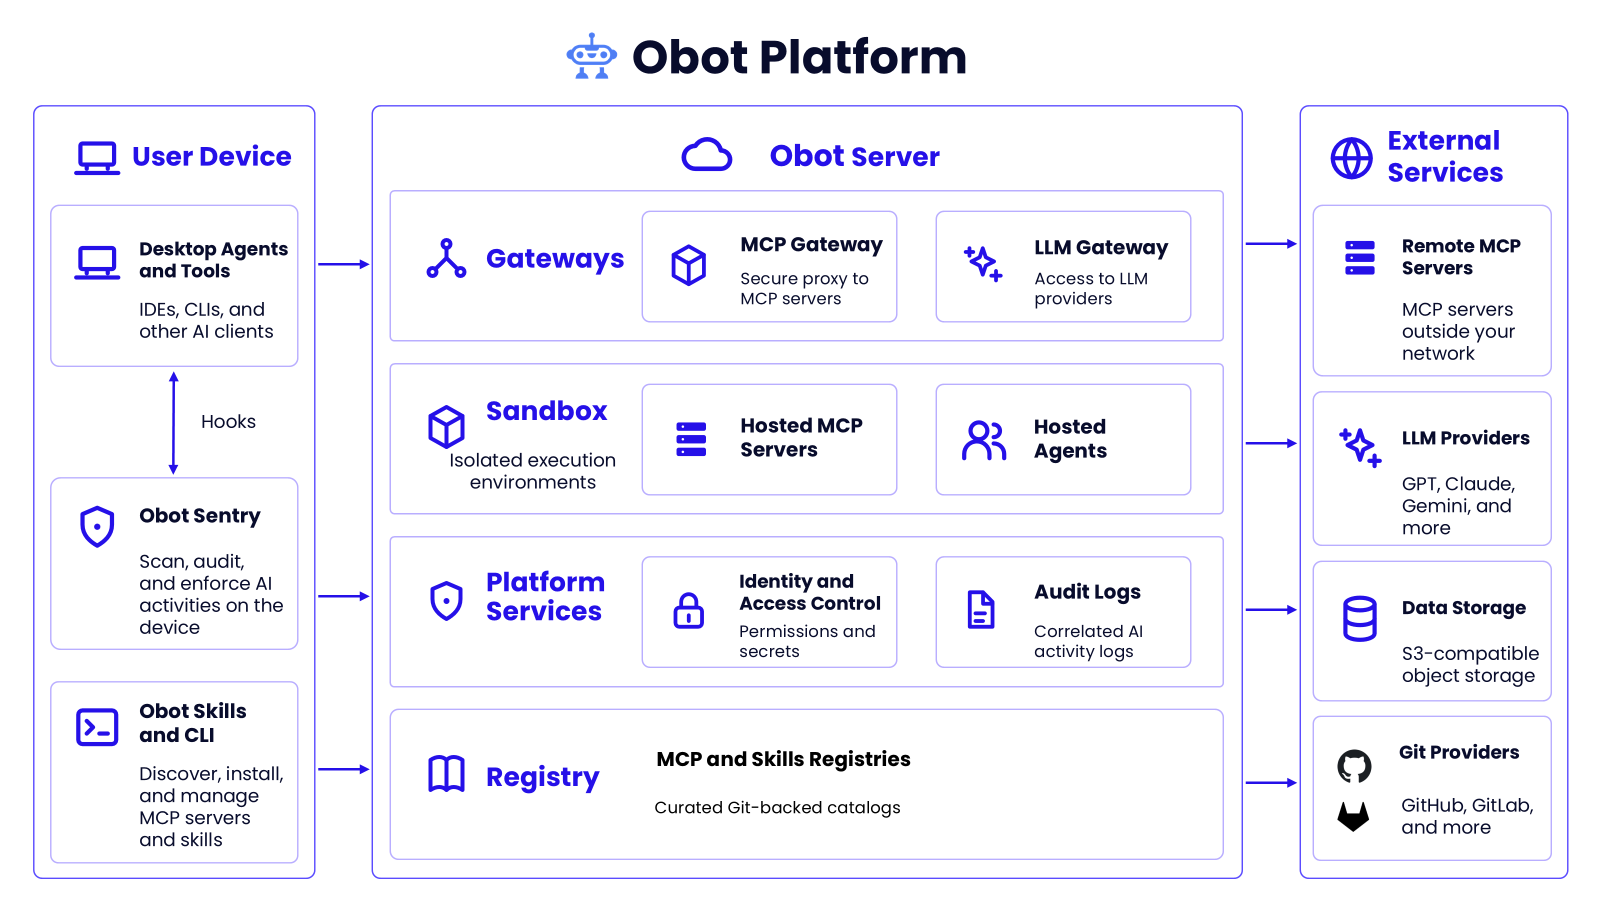
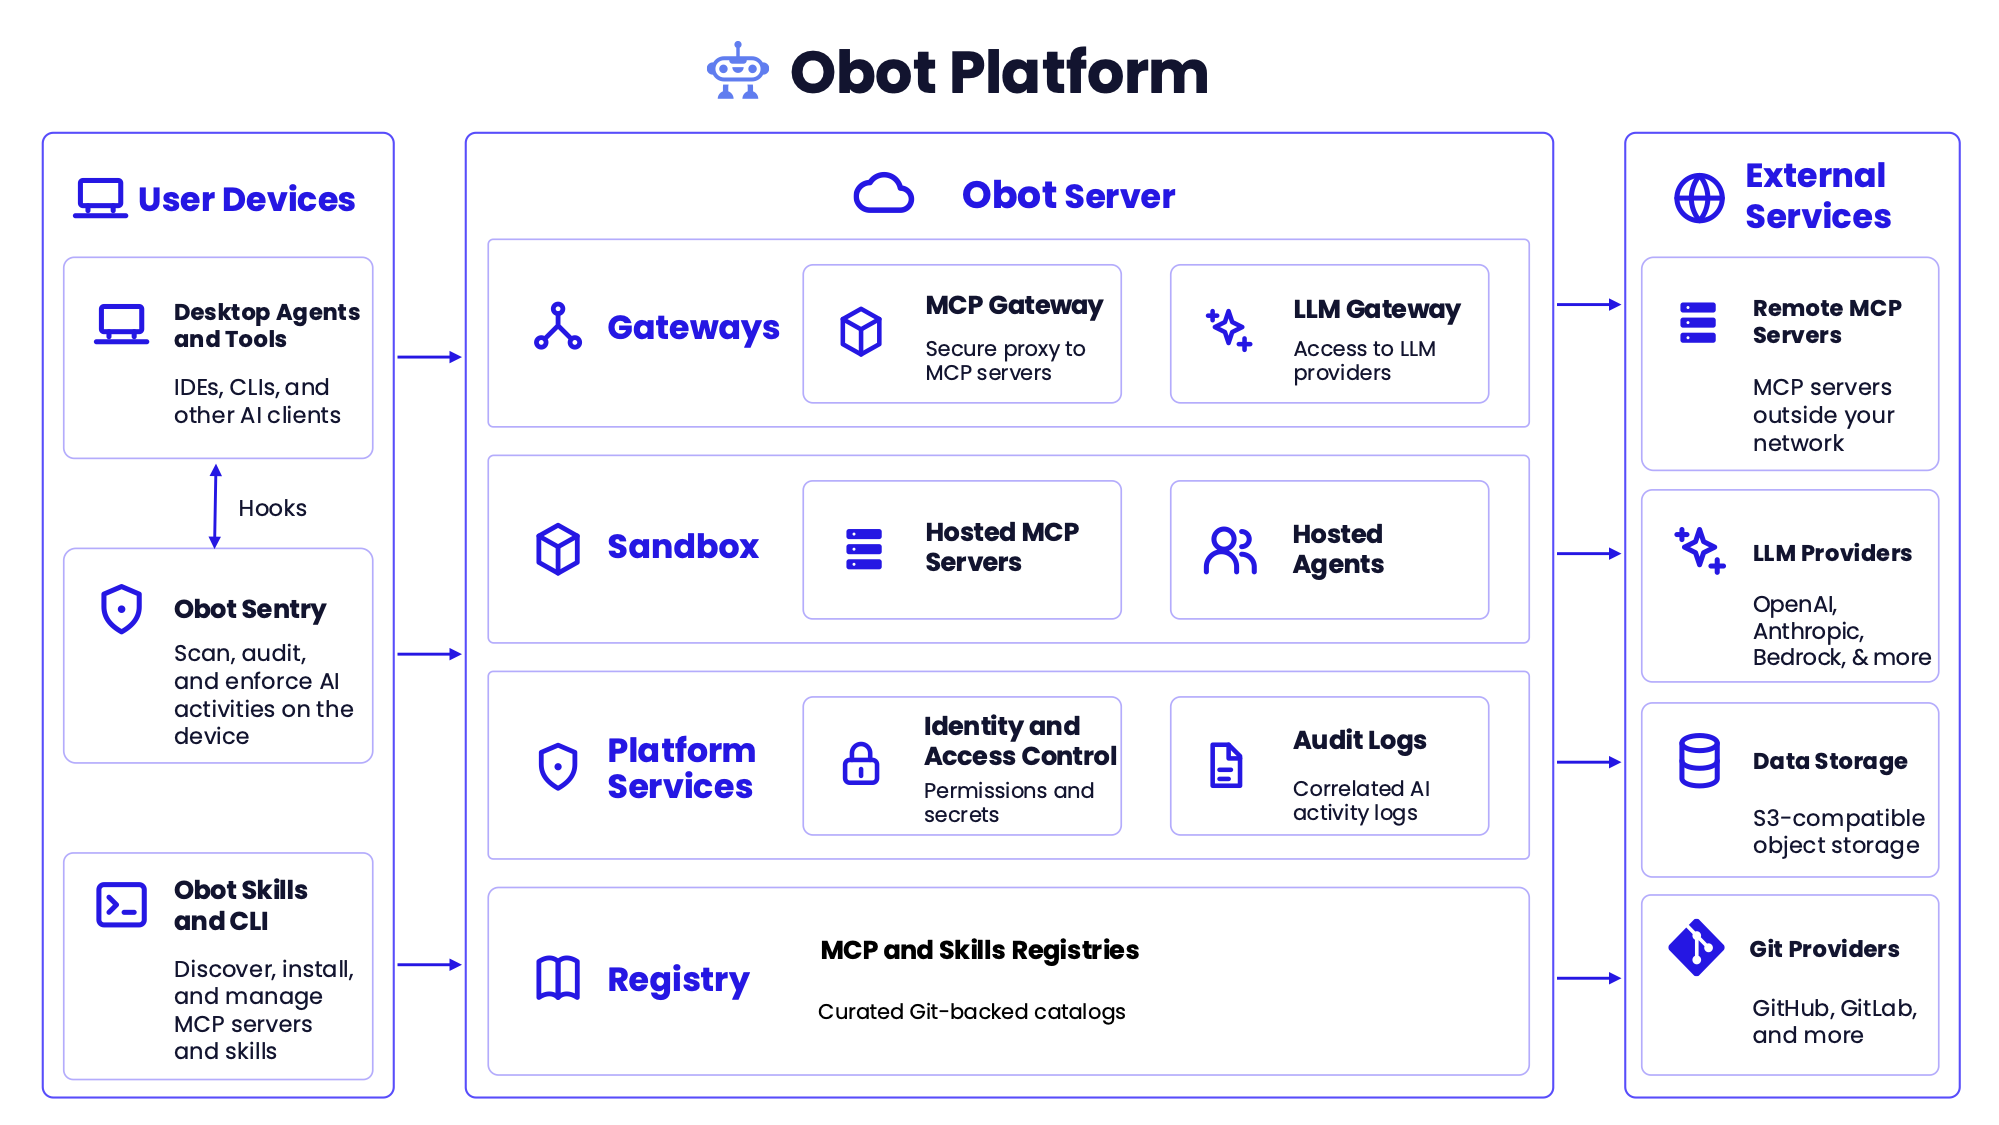
docs: rewrite README and docs overview around the platform architecture
Restructure the intro and capability sections of both pages to describe
the platform as the diagram presents it: activity on user devices,
services managed by or proxied through Obot Server, and the external
services Obot integrates with.

Core Capabilities is now organized by component - MCP servers and
gateway, registry, skills and CLI, LLM gateway, hosted agents and
sandboxed execution, Obot Sentry, access control, and audit logs -
replacing the previous capability groupings. The docs overview carries
the same text as the README plus links to the relevant detail pages.

diff --git a/docs/docs/overview.md b/docs/docs/overview.md
@@ -5,76 +5,110 @@ slug: /
 
 # Obot
 
-Obot is an open-source platform for organizations to manage and govern their internal AI ecosystems. It provides shared infrastructure for distributing AI capabilities, connecting clients to models and tools, managing identities and credentials, and recording activity across centrally hosted services and user workstations.
+Obot is an open-source platform for organizations to manage, secure, and govern their AI ecosystems. It provides shared infrastructure for connecting AI clients to models and tools, distributing approved MCP servers and skills, managing agent access and credentials, running hosted AI workloads, and recording activity across hosted services and user devices.
 
-External clients such as Claude Code, Codex, Cursor, and VS Code connect to the gateways and catalogs they need. Obot applies the organization's policies and records activity at those integration points.
+Obot does not require an organization to standardize on a single AI client, model provider, or tool ecosystem. Desktop agents and tools such as Claude Code, Codex, Cursor, VS Code, and other IDEs and CLIs can use the parts of the platform that apply to them.
 
-## Where Obot Operates
-
-Obot provides several independent control and observation points:
+## Architecture
 
 ![Obot Platform architecture](/img/obot-platform-architecture.png)
 
-You can use only the components that fit your environment. For example, local AI clients can use the LLM Gateway without using Obot-managed MCP servers, and Device Management can inventory clients whose model traffic does not pass through Obot.
+The Obot Platform connects AI activity on user devices with services managed by or proxied through Obot Server.
 
-## MCP Servers and Tools
+On user devices, desktop agents and tools connect to Obot gateways, while Obot Sentry scans, audits, and enforces policy on AI activity taking place on the device. The Obot CLI lets users and AI clients discover, install, and manage approved MCP servers and skills.
 
-Obot manages the definition, deployment, discovery, and use of MCP servers.
+Obot Server provides:
 
-- Host Node.js (`npx`), Python (`uvx`), and containerized MCP servers on Docker or Kubernetes.
-- Register remote MCP servers.
+- MCP and LLM gateways for controlled access to MCP servers and model providers.
+- Sandboxed execution for hosted MCP servers and agents.
+- Platform services for identity and access control, including permissions and secrets.
+- Correlated audit logs of AI activity across the platform.
+- MCP and Skills registries built on curated Git-backed catalogs.
+
+Obot integrates with remote MCP servers, LLM providers, S3-compatible object storage, Git providers, and [auth providers](configuration/auth-providers.md).
+
+## Core Capabilities
+
+### MCP Gateway
+
+The [MCP Gateway](concepts/mcp-gateway.md) is a single governed entry point to every MCP server a user is allowed to reach.
+
+- Proxy MCP servers, whether hosted by Obot or running outside it.
 - Create composite MCP servers that expose selected tools from multiple servers.
-- Manage catalogs through the UI or [Git-backed sources](configuration/mcp-server-gitops.md), and serve the standard [MCP Registry API](functionality/mcp-registry-api.md).
-- Grant access to servers and tools by user or identity-provider group with [MCP Access Policies](functionality/mcp-access-policies.md).
-- Handle MCP OAuth, user and shared credentials, Kubernetes [secret bindings](functionality/mcp-servers.md#kubernetes-secret-bindings), and token exchange.
-- Inspect, reject, or modify MCP requests and responses with [filters](functionality/filters.md).
-- Restrict the domains hosted MCP servers can reach through [MCP Server Egress Control](configuration/mcp-server-egress-control.md).
+- Control [server and tool access](functionality/mcp-access-policies.md) by user or identity-provider group.
+- Manage MCP OAuth, user and shared credentials, Kubernetes [secret bindings](functionality/mcp-servers.md#kubernetes-secret-bindings), and token exchange.
+- Inspect, reject, or modify MCP requests and responses with MCP or webhook [filters](functionality/filters.md).
 
-See [MCP Servers](functionality/mcp-servers.md) for deployment and configuration details. See [MCP Gateway](concepts/mcp-gateway.md) for how clients connect to servers through Obot.
+### LLM Gateway
 
-## Agent Skills
+The [LLM Gateway](functionality/llm-gateway.md) presents provider-compatible endpoints that AI clients use to reach approved models.
 
-Obot indexes [Agent Skills](functionality/skills.md) from Git repositories and makes them available according to [Skill Access Policies](functionality/skill-access-policies.md). Policies can grant a user or group access to individual skills, an entire source repository, or all configured skills.
+- Connect external AI clients to OpenAI, Anthropic, Amazon Bedrock, Azure, and Generic Responses Compatible providers.
+- Keep provider credentials in Obot instead of distributing them to individual users or clients.
+- Authenticate clients with scoped Obot API keys.
+- Restrict the models visible and callable by each user through [Model Access Policies](functionality/model-access-policies.md).
+- Record requests and responses, client and session metadata, token usage, and estimated model cost.
 
-Users and local AI clients use the Obot CLI to search the allowed catalog and install skills. Git credentials can be managed centrally and reused across skill repositories and MCP catalog sources.
+### Sandboxed MCP Servers and Agents
 
-## Model Access
+Obot can run agents and MCP servers itself, in isolated execution environments outside the main Obot Server process.
 
-The [LLM Gateway](functionality/llm-gateway.md) presents provider-compatible endpoints that external AI clients can use with scoped Obot API keys. Obot keeps the upstream provider credentials and applies [Model Access Policies](functionality/model-access-policies.md) before forwarding a request.
+- Host `npx`, `uvx`, and containerized [MCP servers](functionality/mcp-servers.md) as Docker containers or Kubernetes workloads.
+- Run hosted agents in the same isolated environments.
+- Apply [domain-based egress rules](configuration/mcp-server-egress-control.md) to hosted MCP servers through a configured network-policy provider.
 
-The gateway supports:
+### MCP and Skills Registries
 
-- OpenAI and Anthropic
-- Amazon Bedrock
-- Azure OpenAI and Microsoft Foundry
-- Generic Responses Compatible endpoints such as Ollama or LiteLLM
+The MCP and Skills Registries centralize the discovery, installation, and management of MCP servers and Agent Skills.
 
-The model list returned to a client contains only models that the authenticated user can call. Obot records request status, client and session metadata, token counts, and estimated model cost.
+- Curate MCP and Skills catalogs in Obot or index them from [Git-backed repositories](configuration/mcp-server-gitops.md).
+- Expose MCP catalogs through the standard [MCP Registry API](functionality/mcp-registry-api.md).
+- Publish approved MCP servers and [skills](functionality/skills.md) to users and AI clients.
+- Control access to individual entries, repositories, or complete catalogs with [MCP](functionality/mcp-access-policies.md) and [skill](functionality/skill-access-policies.md) access policies.
+- Reuse centrally managed Git credentials across MCP and Skills catalog sources.
+- Integrate with GitHub, GitLab, and other Git providers.
 
-## Device Inventory and Local AI Activity
+### Obot CLI and Skill
 
-[Device Management](functionality/device-management.md) is a beta capability built around [Obot Sentry](https://github.com/obot-platform/obot-sentry), a companion agent installed on user workstations.
+The [Obot CLI](installation/cli-setup.md) brings approved MCP servers and skills to users and their local AI clients, and the Obot skill teaches an agent to use the CLI itself.
 
-Obot Sentry:
+- Search for and install approved skills.
+- Search for approved MCP servers.
+- Run and manage skills from the command line.
+- Install the Obot skill so an agent can work with Obot on its own.
 
-- Enrolls a device with device-bound credentials.
-- Periodically inventories supported AI clients and their configured MCP servers, skills, and plugins.
-- Installs managed audit hooks for Claude Code, Codex, Cursor, and VS Code.
-- Submits local tool-call events to the same audit system used for MCP activity.
+### Obot Sentry
 
-Administrators can generate manual installers or Microsoft Intune packages, issue and revoke enrollment keys, and inspect inventory by device, user, client, MCP server, or skill.
+[Obot Sentry](https://github.com/obot-platform/obot-sentry) extends Obot governance to AI activity occurring directly on user devices. [Device Management](functionality/device-management.md) is currently beta.
 
-## Policies, Credentials, and Audit Data
+- Enroll devices with the Obot Platform.
+- Inventory installed AI clients, MCP servers, skills, and plugins.
+- Install hooks for Claude Code, Codex, Cursor, and VS Code.
+- Record local tool calls alongside activity passing through Obot gateways.
+- Support monitoring and enforcement policies for AI activity on managed devices.
+- Install manually or deploy through MDMs such as Microsoft Intune.
 
-Access policies for MCP servers, skills, and models use authenticated users and identity-provider groups. Obot can keep provider and shared-service credentials out of end-user client configuration, while per-user OAuth and configuration remain tied to the user.
+### Identity and Access Control
 
-[Audit Logs and Usage](functionality/audit-logs-and-usage.md) cover three types of activity:
+Obot governs who can reach each part of the platform, and with which credentials.
 
-- MCP requests and responses
-- Local tool calls submitted by Obot Sentry
-- LLM Gateway requests, outcomes, and token usage
+- Authenticate users through configured [identity providers](configuration/auth-providers.md).
+- Assign platform [roles and permissions](configuration/user-roles.md).
+- Control access to MCP servers, MCP tools, skills, models, and administrative APIs.
+- Apply policies based on individual users or identity-provider groups.
+- Issue scoped credentials for AI clients and agent workloads.
+- Restrict sensitive audit content to users with the appropriate role.
 
-Admins and Owners can inspect operational metadata. Only users with the Auditor role can access stored request and response content. MCP and local tool-call events use a normalized event format, and audit data can be exported once or on a schedule to Amazon S3, Google Cloud Storage, or Azure Blob Storage.
+### Audit Logs and Visibility
+
+Obot correlates activity across MCP servers, LLM providers, hosted workloads, and user devices.
+
+- Record MCP requests and responses.
+- Record LLM Gateway requests, responses, token usage, and model cost.
+- Record local AI-client tool calls captured by Obot Sentry.
+- Filter activity by user, server, tool, provider, model, client, device, or session.
+- Track MCP and LLM usage across users and resources.
+- Export [audit data](functionality/audit-logs-and-usage.md) once or on a schedule.
 
 ## Getting Started
 

diff --git a/README.md b/README.md
@@ -1,55 +1,109 @@
 # Obot
 
-Obot is an open-source platform for organizations to manage and govern their internal AI ecosystems. It provides shared infrastructure for distributing AI capabilities, connecting clients to models and tools, managing identities and credentials, and recording activity across centrally hosted services and user workstations.
+Obot is an open-source platform for organizations to manage, secure, and govern their AI ecosystems. It provides shared infrastructure for connecting AI clients to models and tools, distributing approved MCP servers and skills, managing agent access and credentials, running hosted AI workloads, and recording activity across hosted services and user devices.
 
-Obot does not require an organization to standardize on one AI client or model provider. External clients such as Claude Code, Codex, Cursor, and VS Code can use the parts of the platform that apply to them.
+Obot does not require an organization to standardize on a single AI client, model provider, or tool ecosystem. Desktop agents and tools such as Claude Code, Codex, Cursor, VS Code, and other IDEs and CLIs can use the parts of the platform that apply to them.
 
 ## Architecture
 
 ![Obot Platform architecture](docs/static/img/obot-platform-architecture.png)
 
+The Obot Platform connects AI activity on user devices with services managed by or proxied through Obot Server.
+
+On user devices, desktop agents and tools connect to Obot gateways, while Obot Sentry scans, audits, and enforces policy on AI activity taking place on the device. The Obot CLI lets users and AI clients discover, install, and manage approved MCP servers and skills.
+
+Obot Server provides:
+
+- MCP and LLM gateways for controlled access to MCP servers and model providers.
+- Sandboxed execution for hosted MCP servers and agents.
+- Platform services for identity and access control, including permissions and secrets.
+- Correlated audit logs of AI activity across the platform.
+- MCP and Skills registries built on curated Git-backed catalogs.
+
+Obot integrates with remote MCP servers, LLM providers, S3-compatible object storage, Git providers, and auth providers.
+
 ## Core Capabilities
 
-### MCP Management
+### MCP Gateway
 
-- Curate MCP server catalogs through the UI or Git, and expose them through the standard MCP Registry API.
-- Host `npx`, `uvx`, and containerized MCP servers on Docker or Kubernetes.
-- Register remote MCP servers.
+The MCP Gateway is a single governed entry point to every MCP server a user is allowed to reach.
+
+- Proxy MCP servers, whether hosted by Obot or running outside it.
 - Create composite MCP servers that expose selected tools from multiple servers.
 - Control server and tool access by user or identity-provider group.
-- Handle MCP OAuth, user and shared credentials, Kubernetes secret bindings, and token exchange.
+- Manage MCP OAuth, user and shared credentials, Kubernetes secret bindings, and token exchange.
 - Inspect, reject, or modify MCP requests and responses with MCP or webhook filters.
-- Apply domain-based egress rules to hosted MCP servers through a configured network-policy provider.
-
-Remote and composite MCP servers are proxied by the Obot server process. Obot creates separate workloads only for MCP servers that it hosts.
-
-### Skill Distribution
-
-- Index Agent Skills from Git repositories.
-- Grant access to individual skills, repositories, or the full catalog by user or group.
-- Let users and local AI clients search and install approved skills with the Obot CLI.
-- Reuse centrally managed Git credentials across skill and MCP catalog sources.
 
 ### LLM Gateway
 
-- Connect external AI clients to OpenAI, Anthropic, Amazon Bedrock, Azure OpenAI, Microsoft Foundry, and Generic Responses Compatible providers.
-- Keep provider credentials in Obot and authenticate users with scoped Obot API keys.
+The LLM Gateway presents provider-compatible endpoints that AI clients use to reach approved models.
+
+- Connect external AI clients to OpenAI, Anthropic, Amazon Bedrock, Azure, and Generic Responses Compatible providers.
+- Keep provider credentials in Obot instead of distributing them to individual users or clients.
+- Authenticate clients with scoped Obot API keys.
 - Restrict the models visible and callable by each user through Model Access Policies.
-- Record request outcomes, client and session metadata, token usage, and estimated model cost.
+- Record requests and responses, client and session metadata, token usage, and estimated model cost.
 
-### Device Inventory and Local AI Auditing
+### Sandboxed MCP Servers and Agents
 
-[Obot Sentry](https://github.com/obot-platform/obot-sentry) enrolls workstations and reports the AI clients, MCP servers, skills, and plugins found on them. It can also install audit hooks for Claude Code, Codex, Cursor, and VS Code so local tool calls are recorded alongside MCP activity.
+Obot can run agents and MCP servers itself, in isolated execution environments outside the main Obot Server process.
 
-Device Management is currently beta. Obot Sentry can be installed manually or deployed to Windows systems through Microsoft Intune.
+- Host `npx`, `uvx`, and containerized MCP servers as Docker containers or Kubernetes workloads.
+- Run hosted agents in the same isolated environments.
+- Apply domain-based egress rules to hosted MCP servers through a configured network-policy provider.
 
-### Audit and Governance
+### MCP and Skills Registries
 
-- Record MCP requests and responses, local AI-client tool calls, and LLM Gateway requests.
-- Restrict access to sensitive request and response content to users with the Auditor role.
-- Filter activity by user, server, tool, provider, model, client, or session.
-- Export audit data once or on a schedule to Amazon S3, Google Cloud Storage, or Azure Blob Storage.
-- Track MCP usage and LLM token usage across users and resources.
+The MCP and Skills Registries centralize the discovery, installation, and management of MCP servers and Agent Skills.
+
+- Curate MCP and Skills catalogs in Obot or index them from Git-backed repositories.
+- Expose MCP catalogs through the standard MCP Registry API.
+- Publish approved MCP servers and skills to users and AI clients.
+- Control access to individual entries, repositories, or complete catalogs with MCP and skill access policies.
+- Reuse centrally managed Git credentials across MCP and Skills catalog sources.
+- Integrate with GitHub, GitLab, and other Git providers.
+
+### Obot CLI and Skill
+
+The Obot CLI brings approved MCP servers and skills to users and their local AI clients, and the Obot skill teaches an agent to use the CLI itself.
+
+- Search for and install approved skills.
+- Search for approved MCP servers.
+- Run and manage skills from the command line.
+- Install the Obot skill so an agent can work with Obot on its own.
+
+### Obot Sentry
+
+[Obot Sentry](https://github.com/obot-platform/obot-sentry) extends Obot governance to AI activity occurring directly on user devices. Device Management is currently beta.
+
+- Enroll devices with the Obot Platform.
+- Inventory installed AI clients, MCP servers, skills, and plugins.
+- Install hooks for Claude Code, Codex, Cursor, and VS Code.
+- Record local tool calls alongside activity passing through Obot gateways.
+- Support monitoring and enforcement policies for AI activity on managed devices.
+- Install manually or deploy through MDMs such as Microsoft Intune.
+
+### Identity and Access Control
+
+Obot governs who can reach each part of the platform, and with which credentials.
+
+- Authenticate users through configured identity providers.
+- Assign platform roles and permissions.
+- Control access to MCP servers, MCP tools, skills, models, and administrative APIs.
+- Apply policies based on individual users or identity-provider groups.
+- Issue scoped credentials for AI clients and agent workloads.
+- Restrict sensitive audit content to users with the appropriate role.
+
+### Audit Logs and Visibility
+
+Obot correlates activity across MCP servers, LLM providers, hosted workloads, and user devices.
+
+- Record MCP requests and responses.
+- Record LLM Gateway requests, responses, token usage, and model cost.
+- Record local AI-client tool calls captured by Obot Sentry.
+- Filter activity by user, server, tool, provider, model, client, device, or session.
+- Track MCP and LLM usage across users and resources.
+- Export audit data once or on a schedule.
 
 ## Getting Started
 
